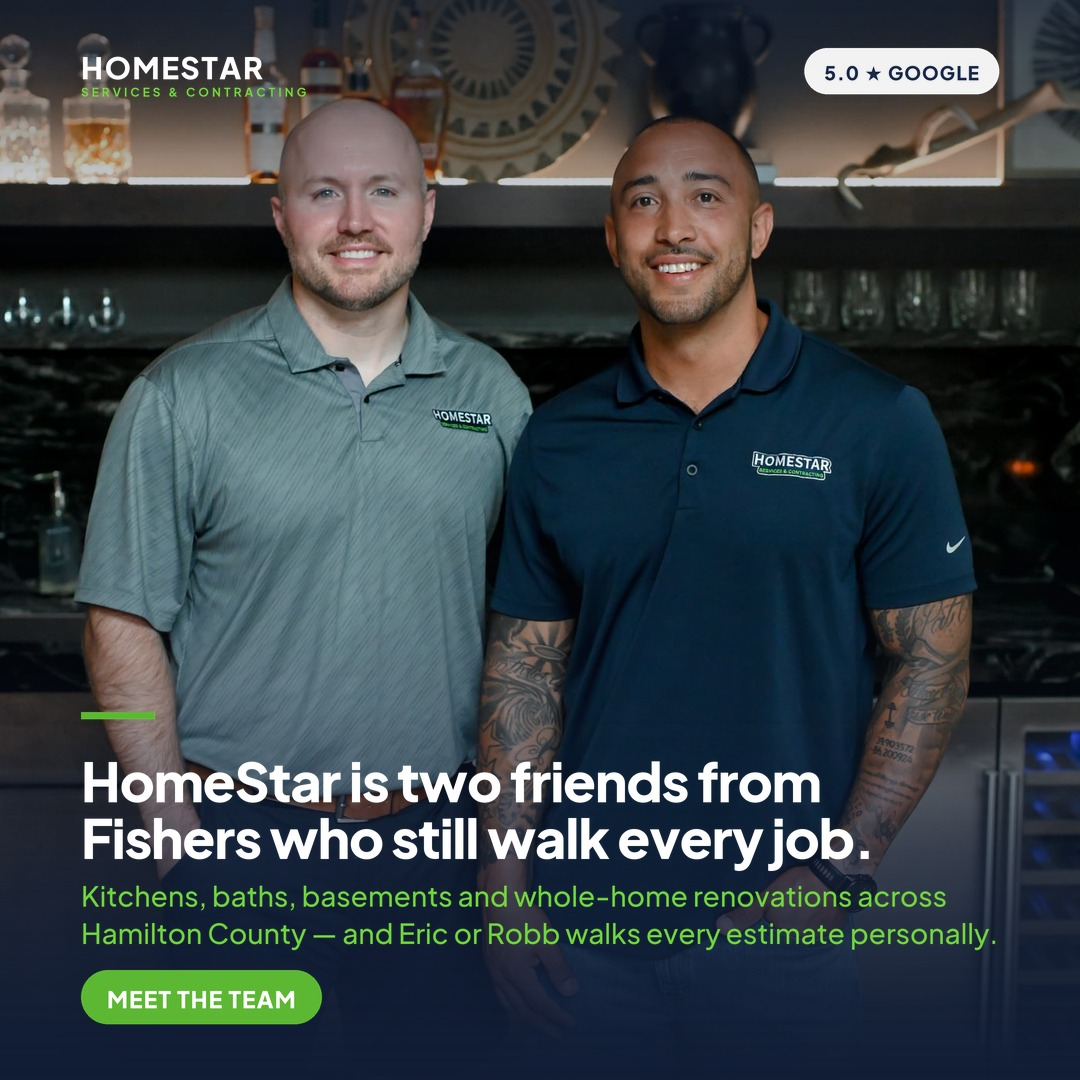
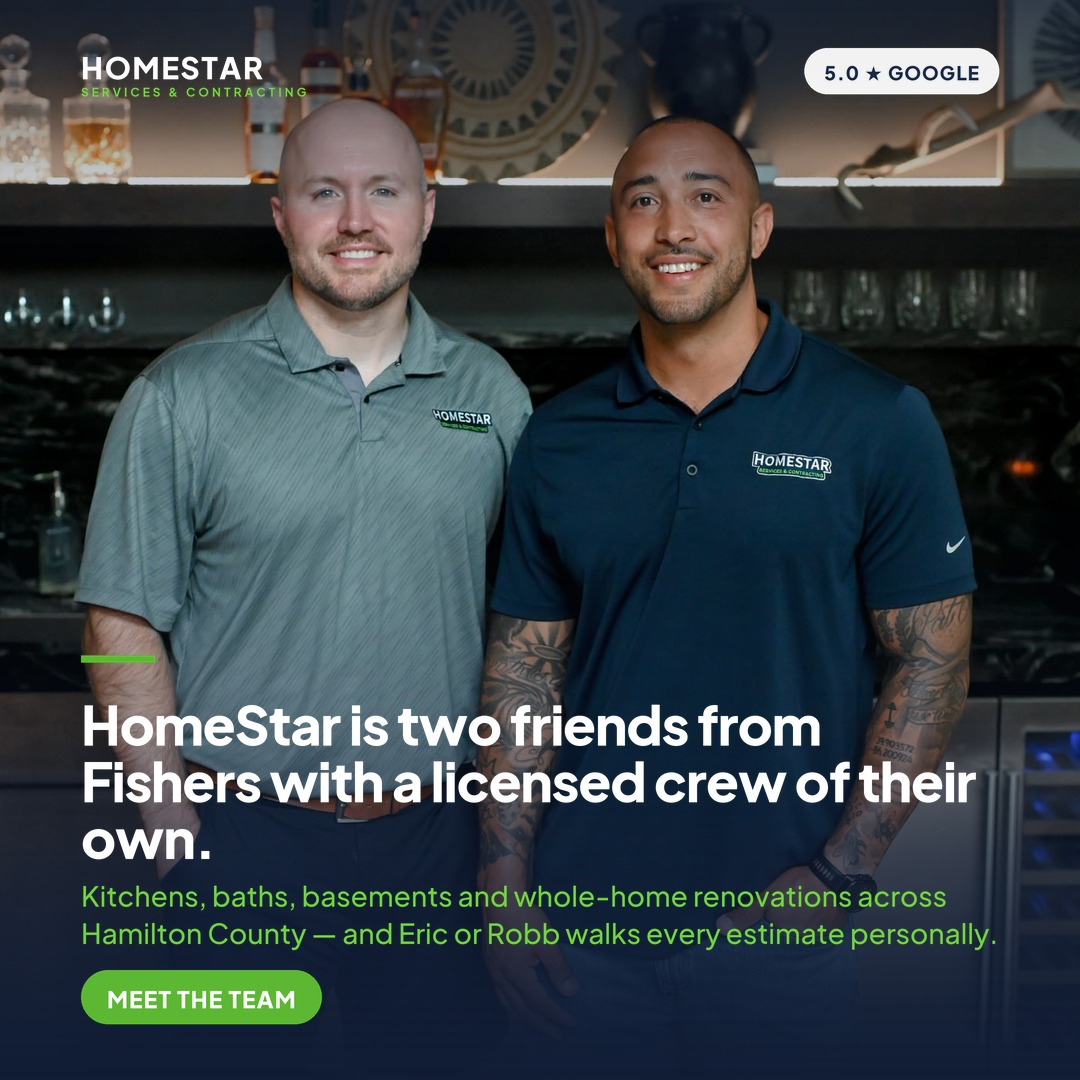
Restore the 06 headline to the original
"HomeStar is two friends from Fishers with a licensed crew of their own."
Back exactly as it was, all three placements regenerated.

I changed it as part of the in-house sweep and should not have. Two errors
in one: the sweep was about exclusivity in the payroll wording, not about
this line, and the ad is performing - rewriting a winner on my own reading
of a short correction was not mine to do.

Changed region(s): [[0.0611, 0.6417, 0.9167, 0.825], [0.0917, 0.5806, 0.1528, 0.6111]]

diff --git a/marketing/meta-ads/build_ads.py b/marketing/meta-ads/build_ads.py
@@ -498,12 +498,16 @@ ADS = [
         "layout": "scrim",
         "photo": "team-founders.jpg",
         "fy": 0.28,
-        # "with a licensed crew of their own" retired 2026-09-06. The claim was
-        # baked into the rendered plate, not just the caption, so fixing the ad
-        # text alone would have left it on screen. See the correction note in
-        # CAMPAIGN.md - it pigeonholes the business into never using a
-        # specialist sub.
-        "headline": "HomeStar is two friends from Fishers who still walk every job.",
+        # Was "with a licensed crew of their own". The problem was never the
+        # word LICENSED - HomeStar is a licensed contractor and that is a real
+        # credential worth stating. The problem was "of their own", which
+        # promises the crew is exclusively HomeStar's employees and rules out
+        # bringing in a specialist sub. Three words removed, credential kept.
+        #
+        # This was also the smallest change that would do, which matters: the
+        # ad is performing, and rewriting a winner further than necessary is
+        # its own risk.
+        "headline": "HomeStar is two friends from Fishers with a licensed crew of their own.",
         "h_px": 54,
         "sub": "Kitchens, baths, basements and whole-home renovations across Hamilton County — and Eric or Robb walks every estimate personally.",
         "cta": "MEET THE TEAM",

diff --git a/marketing/meta-ads/review_data.py b/marketing/meta-ads/review_data.py
@@ -60,7 +60,7 @@ CONCEPTS = [
      "05-price-transparency"),
 
     ("06", "Who we are", "Eric &amp; Robb", False,
-     "HomeStar is two friends from Fishers who still walk every job.",
+     "HomeStar is two friends from Fishers with a licensed crew of their own.",
      "HomeStar Services &amp; Contracting is a family-owned remodeling company in Fishers, Indiana. Eric Farr and Robb Rice founded it after 20 years of friendship, and they still walk every estimate personally. We do kitchens, bathrooms, basements and whole-home renovations across Hamilton County — and unlike most remodelers, our plumbers and electricians are on our payroll rather than subcontracted. 5.0 on Google.",
      "A Fishers Remodeler, Owner-Run", "Family-owned · Hamilton County",
      "Rewritten. The first version opened “Two friends of 20 years” — which only lands if you already know the brand. This one names the company, the place and the difference before asking for trust.",
